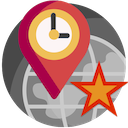
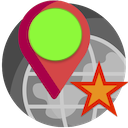
less logging, high contrast temp-status button design

Changed region(s): [[0.2188, 0.0312, 0.6562, 0.5]]

diff --git a/background.js b/background.js
@@ -29,25 +29,23 @@ function statusIcon(status)
 
 function onError(error) 
 {
-    console.log("error: "+JSON.stringify(error));
+    console.log("Error: "+JSON.stringify(error));
     browser.browserAction.setTitle(
         {title :"Localise: Unresponsive, try reloading."}
     );
     browser.browserAction.setIcon(
         {path: statusIcon(0)}
     ).catch(
-        ()=>{console.log("error setting error icon");}
+        ()=>{console.log("Error setting error icon");}
     );
 }
 
 function messageContentScript(tab_id, message)
 {
-    console.log("send '"+message+"' to "+JSON.stringify(tab_id));
     browser.tabs.sendMessage(
         tab_id,
         {greeting: message}
     ).then(response => {
-        console.log("received: "+JSON.stringify(response));
         browser.browserAction.setTitle(
             {title :"Localise: " + statusString(response.response)}
         );
@@ -58,16 +56,13 @@ function messageContentScript(tab_id, message)
 }
 
 browser.browserAction.onClicked.addListener((tab) => {
-    console.log("action: toggle");
     messageContentScript(tab.id, "toggle");
 });
 
 browser.tabs.onActivated.addListener((activeInfo) => {
-    console.log("changed tab");
     messageContentScript(activeInfo.tabId, "check");
 });
 
 browser.tabs.onUpdated.addListener((tabId) => {
-    console.log("updated tab");
     messageContentScript(tabId, "check");
 });
